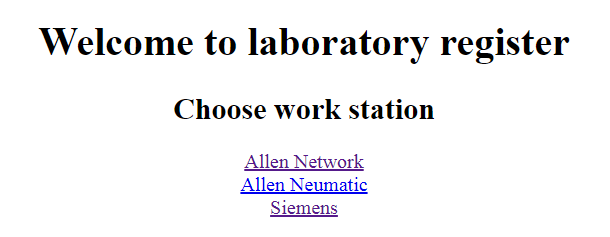
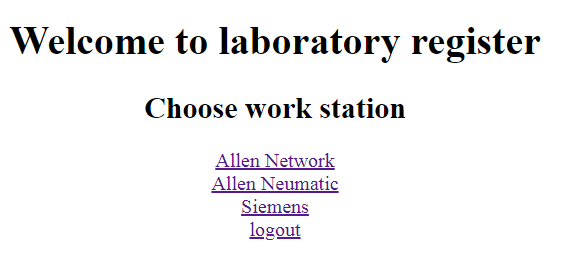
docs: update.

Changed region(s): [[0.0, 0.0886, 0.9645, 0.2658], [0.3617, 0.5907, 0.6028, 0.9451], [0.2411, 0.384, 0.7234, 0.5021]]

diff --git a/README.md b/README.md
@@ -1,6 +1,7 @@
 # Api rest app for lab student record
 This is a web app used to register lab students. <br/><br/>
- 
+
+![login](https://github.com/josebuenogar1/laboratoryStudents/blob/main/images/login.PNG) <br/><br/>
 ![home](https://github.com/josebuenogar1/laboratoryStudents/blob/main/images/home.PNG) <br/><br/>
 
 ---
@@ -29,8 +30,9 @@ PDF generated. <br/><br/>
 1. Download or clone the code.
 2. Open  pom.xml file as a project (intelilliJ).
 3. [Create DB](#DataBase)
-4. Add info about your DB conection. <br/>
+4. Add info about your DB conection. 
    [file](https://github.com/josebuenogar1/laboratoryStudents/blob/main/src/main/resources/application.properties) <br/>
+4.1  Add your information about your login and password [file](https://github.com/josebuenogar1/laboratoryStudents/blob/main/src/main/java/laboratoryestudents/app/configuration/SecurityConfig.java)<br/>
 5. Run [AppApplication](https://github.com/josebuenogar1/laboratoryStudents/blob/main/src/main/java/laboratoryestudents/app/AppApplication.java).
 6. Open localhost:8080.
 
